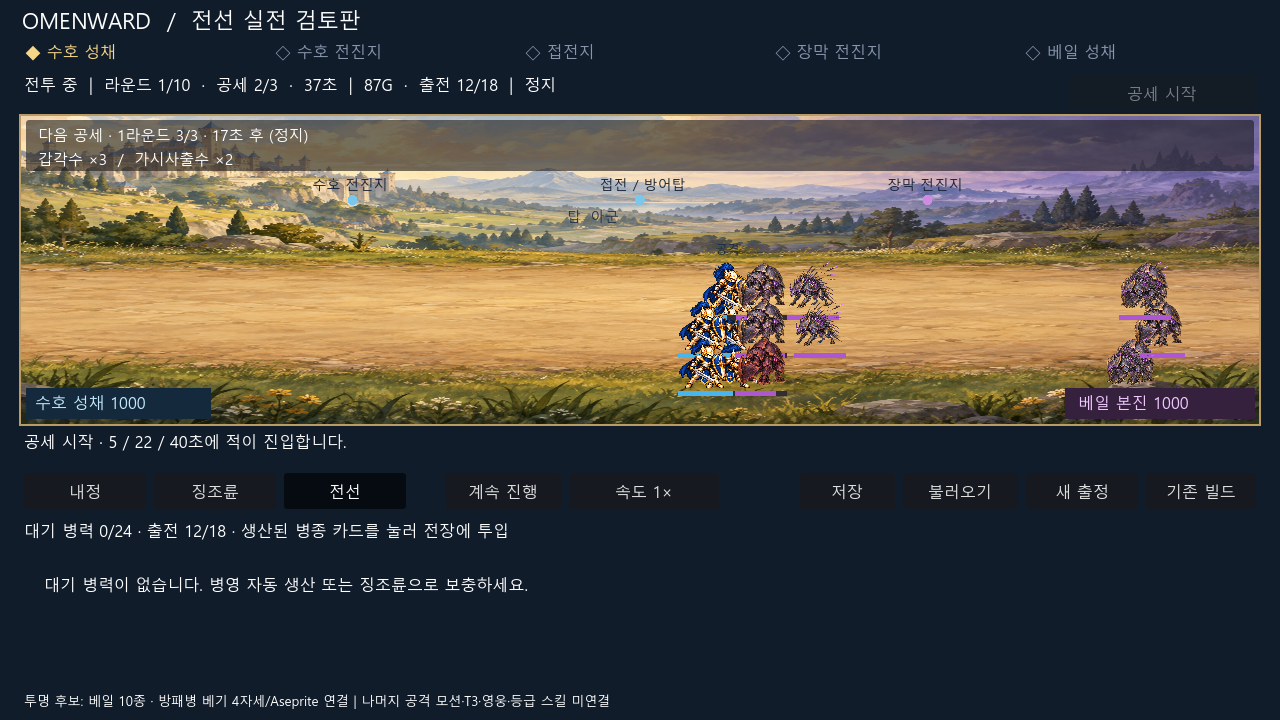
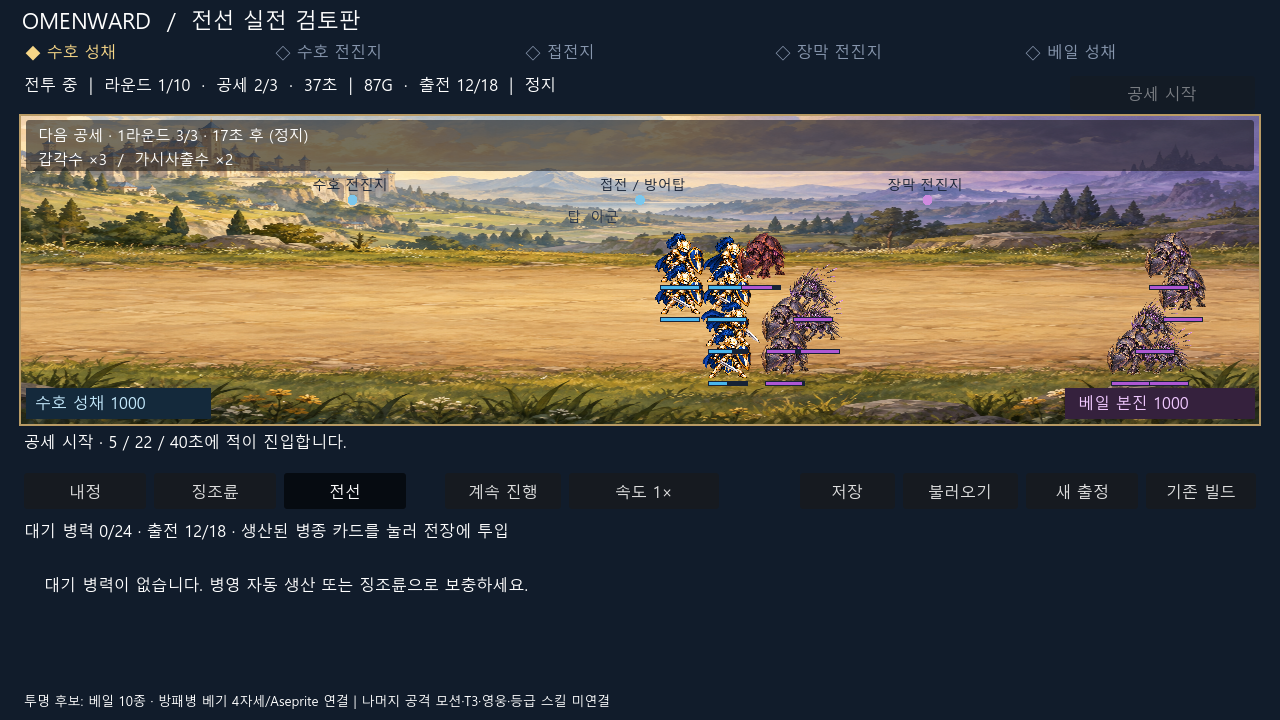
feat: stagger combat presentation without changing simulation

Changed region(s): [[0.5, 0.3056, 0.6562, 0.55], [0.8438, 0.3056, 0.9688, 0.55]]

diff --git a/tools/replan_scope.py b/tools/replan_scope.py
@@ -32,6 +32,7 @@ ALLOWED = {
     'docs/images/candidates/blueprint-20260911/ward-shield-slash-alpha-candidate.png.import',
     'docs/superpowers/plans/2026-09-11-visible-battle-slice.md',
     'output/front-battle.png', 'output/front-building.png',
+    'output/front-battle-1080.png',
     'output/front-shield-windup.png', 'output/front-shield-impact.png', 'output/front-shield-recover.png',
     'tests/replan_slice_test.gd', 'tests/replan_slice_test.gd.uid',
     'tests/replan_screen_test.gd', 'tests/replan_screen_test.gd.uid',

diff --git a/docs/superpowers/plans/2026-09-11-visible-battle-slice.md b/docs/superpowers/plans/2026-09-11-visible-battle-slice.md
@@ -1,5 +1,17 @@
 # Visible battle and construction implementation plan
 
+## 2026-09-13 approved bounded combat-readability plan and readback
+
+User approved the preceding plan: reproduce crowding, compare shrink/stagger/status approaches, keep combat rules, verify two resolutions. PLAN was presented before BUILD. REUSE existing atlas/draw consumer; ADAPT stable four-depth stagger (0/24px rear offset); REJECT global shrinking and physical collision changes because those alter readability or combat tuning beyond this unit. Godot custom drawing order supports the final status overlay: https://docs.godotengine.org/en/stable/tutorials/2d/custom_drawing_in_2d.html . Existing Into the Breach threat-readability research remains context, not a claim that this layout replicates that game.
+
+- [x] RED: screen test rejects missing bounded projection.
+- [x] BUILD: front_screen.gd owns display-only unit_draw_anchor; depth-sort a copied array, preserve all model coordinates, draw health status after sprites, remove repeated attack text/placeholder unit frames.
+- [x] VERIFY: eight co-located consecutive IDs have distinct bounded anchors; projection does not mutate snapshot; 230 simulation steps match control snapshot; existing 68 model checks/UI-save/default gate pass.
+- [x] GPU: real natural battle remains19damage/16units and shield3/3poses. 1280x720 and1920x1080 inspected. Extra capture path exact-scoped. No new art generated.
+- [x] REVIEW: independent five-pass scope/rules/state/visual/tests review found no blocker. Residual sprite/bar overlap remains; eight-ID pattern repeats. Not collision-free or Human PASS. Current capture is predominantly shields/Veil; full mixed-role visual stress remains pending.
+
+Base remote still d830c0f6; pinned v9.4.3 unchanged, raw protected-path FAIL/scoped BUILD PASS. Parent PR/main remain unmerged. Next plan: mixed-role crowding stress and role/status readability before first-map end-to-end completion. Rollback this display/test change; save schema and simulation need no migration.
+
 ## 2026-09-12 continuous improvement: forecast and supply observability
 
 Outcome: RED missing-query/UI checks preceded implementation; GREEN model 68/68, actual UI/save/default-scene gate, 109 selected existing contract tests and 12 scoped/alpha/motion tests. GPU 1280×720 capture: 19 damage events /16 units, shield windup/impact/recovery 3/3. Five-scope independent review found paused/terminal production wording; corrected and tested, including paused+locked substring regression. `git diff --check` clean. Base raw FAIL is the same eight approved runtime paths; project scoped BUILD PASS, not Base raw PASS. Full 559-test suite not rerun in this iteration; the historical `_base_recovery` fixture problem remains unverified. Human/device/accessibility/1920×1080/full-product NOT_RUN. Exact remote CI is checked after commit, not inferred from these local results.

diff --git a/docs/ACTIVE_CONTEXT.md b/docs/ACTIVE_CONTEXT.md
@@ -1,5 +1,7 @@
 # [현행] OMENWARD Active Context
 
+2026-09-13 계획 승인 후 표시 개선: 고정 4단 깊이/최대24px 후방 표시 보정, 복사 배열 깊이 정렬, 체력바 후순위 표시. 전투 모델/저장 규칙은 변경하지 않았다. 68모델·화면/저장/기본실행 PASS, 표시 계산 포함230단계와 대조 모델 상태 일치. 720p/1080p GPU 화면 및 방패3상태 확인. 중첩은 감소했으나 동일 배치 반복/체력바 중첩은 PARTIAL. 전체 혼합 병종 시각 스트레스·Human은 남아 있다.
+
 2026-09-12 지속 개선 1회차: 최신 Base remote d830c0f6를 비교했으며 채택 v9.4.3은 유지한다. 현재 공세 스폰 데이터에서 다음 병종/수량/시간을 읽는 공통 2줄 예보와 선택 병영 생산 진행·중단 사유를 연결했다. Into the Breach/Thronefall/Commander Quest/Slotbound 공식 자료의 ADOPT/ADAPT/REJECT는 기존 실행 계획이 소유한다. 모델68검사·화면/저장/기본 실행 PASS; 정지·종료·잠긴 건물 전문화 회귀 포함. Human/전체 제품 완료는 아니다. 후속 순서는 Roadmap 최신 블록을 따른다.
 
 2026-09-12 베기 연결: 기존 RGBA 원화의 네 병사 성분은 서로 겹치지 않아 개별 분리 후 768×768, 발 피벗(384,700)으로 평행이동했다. RGB/가시 픽셀 보존, native Aseprite 4프레임 및 PNG 정확 일치. 방패병 대기→준비180ms→베기100ms→복귀150ms를 실제 전투에 연결했고 준비 종료 때 살아 있는 동일 대상/사거리를 재검증해 1회 타격한다. 첫 타격에 준비 지연이 생기며 기존 피해량/공격 주기 수치는 유지한다. 모델55검사, 화면·저장·기본실행 PASS, 원화/출력2검사 PASS, GPU 자연 전투19damage/16units 및 준비·베기·복귀3상태 캡처 확인. 5회 전체 범위 독립 검토에서 차단 결함 없음. 아래 idle-only/모션 미연결은 이 방패병 범위에서 역사. 4자세 후보이며 이동·피격·사망/다른 병종 공격·최종 Human은 미완료. Aseprite 프레임 복제에 따른 겹침 실패본은 직접 삭제하지 않고 사용자 검토 폴더에 모은다. Base 원검사 FAIL / 한정 BUILD PASS와 부모 PR·main 통합 경계는 유지한다.

diff --git a/docs/process/APPROVED_REPLAN_UI_MOTION_BUILD_SCOPE_20260911.md b/docs/process/APPROVED_REPLAN_UI_MOTION_BUILD_SCOPE_20260911.md
@@ -14,6 +14,8 @@ The project router's generic stop rule is superseded **only for this explicit ap
 
 ## Evidence and integration
 
+2026-09-13 user approved the presented combat-readability plan. Display-only bounded stagger/depth order and health-bar presentation stay in front_screen.gd; front_run rules/save remain unchanged. Add exact output/front-battle-1080.png for the required second-resolution GPU capture under the same scope. No new art or game rule is approved by this amendment.
+
 2026-09-12 shield motion continuation: exact files `tools/ward_motion.py`, `tests/test_ward_motion.py`, and candidate `ward-shield-motion.png/.png.import/.aseprite/.json` are added under the existing UI/motion approval. Four disconnected poses from the existing RGBA source are translated to a common foot pivot without redrawing or recoloring. The prior idle-only restriction is superseded for this four-pose review consumer. Windup 180ms, impact 100ms, recovery 150ms; damage happens at windup completion with target/range revalidation. This is candidate implementation, not final art/Human approval.
 
 2026-09-12 exact amendment under the user's Veil transparency request and explicit local-mask approval: `tools/veil_cutout.py`, `tests/test_veil_cutout.py`, and `veil-roster-alpha.png/.aseprite`, `veil-special-alpha.png/.aseprite` under the existing candidate folder. RGB is preserved, only alpha is derived locally. Native Aseprite files are static inspection sources, not animation evidence. Final art approval remains pending. The user now requires moving disposable files into a linked review folder, never deleting them directly; the screen test therefore leaves its test save for collection. Existing historical deletion readback below predates this instruction.

diff --git a/docs/OMENWARD_ROADMAP.md b/docs/OMENWARD_ROADMAP.md
@@ -1,5 +1,7 @@
 # [현행] OMENWARD Roadmap
 
+2026-09-13 전투 표시 1차: 제한된 엇갈림 배치·깊이 정렬·체력바 레이어 개선과 두 해상도 캡처 완료. 완전 무중첩은 아니며 다음은 혼합 병종 밀집·경계 장면 검증/보완 계획 → 첫 맵 준비~결과 전체 흐름 → 징조륜 선택 → 병종 성장/모션 → 5맵 확장이다. 각 구현 전 계획 우선, Human/전체 게임 완료와 분리한다.
+
 2026-09-12 지속 개선: 실제 공세 예보·병영 생산 상태 표시 구현 및 기계 검증. 다음 안전 루프는 전투 유닛 겹침/가독성 재현→UI·배치 개선→실행 검증, 이어 남은 모션 상태군·기획 기능과 실제 구현 차이의 단위별 교정이다. 현재 1맵 검토판을 5맵·T3·등급·영웅 전체 구현으로 취급하지 않는다. 최신 사용자 위임에 따라 반복 기술 승인을 요구하지 않되 핵심 의미 변경·최종 후보 승인·타 PR 통합 경계는 유지한다.
 
 2026-09-12 방패병 베기 4자세 후보 runtime 연결 완료: 원화 성분 분리→공통 발 피벗→native/PNG 정합성→준비 후 단일 타격→저장 회귀→실제 GPU 3상태 캡처. 이 단계는 ASSET_READY/IMPLEMENTED/MACHINE_VERIFIED 및 해당 검토판 RUNTIME_VERIFIED이며 USER_APPROVED 아트·전체 모션은 아니다. 다음은 실제 크기에서 4자세 동작 품질 검토, 방패병 이동·피격·사망 및 베일/다른 병종 모션 확장이다. 베일 사제 종이색 잔여도 PARTIAL로 유지. 범위 밖 T3/영웅/등급/5맵 및 부모 PR·main 통합은 별도다.

diff --git a/docs/CURRENT_CONFIRMED_DECISIONS.md b/docs/CURRENT_CONFIRMED_DECISIONS.md
@@ -1,5 +1,7 @@
 # OMENWARD · Current Confirmed Decisions
 
+2026-09-13 사용자: 앞으로 구현/수정 계획을 먼저 수립한 뒤 진행. 직전 전투 가독성 권장 계획을 승인했다. 기존 화면 표시만 개선하고 실제 전투 좌표·사거리·피해·성장 규칙은 유지한다. 향후도 범위/순서/검증 기준을 먼저 제시한다.
+
 2026-09-12 최신 사용자: Base fresh-read 후 벤치마킹·실무조사→구현→검증→개선 루프를 일상적인 별도 승인 없이 계속 수행하도록 위임했다. 이번 적용은 기존 단일 전선 검토판 UI의 실제 공세 예보와 생산 상태 관측이다. 임의의 핵심 게임 의미 변경, 최종 아트/Human 승인, 다른 PR 흡수, main 직접 push 및 Base lock 교체로 확대하지 않는다. 정확한 조사·실행·잔여 작업은 기존 visible-battle-slice 계획이 소유한다.
 
 2026-09-12 ‘계속 진행/작업재개’: 기존 UI/투명 이미지/모션 한정 승인으로 방패병 4자세 분리·공통 피벗·Aseprite 조립·실제 베기 판정을 진행한다. 원화 재생성이 아니라 기존 후보의 손실 없는 분리이며 최종 아트/Human 승인으로 확대하지 않는다. exact 파일과 시간/판정 owner는 APPROVED_REPLAN_UI_MOTION_BUILD_SCOPE_20260911.md 및 front_run.gd다.
